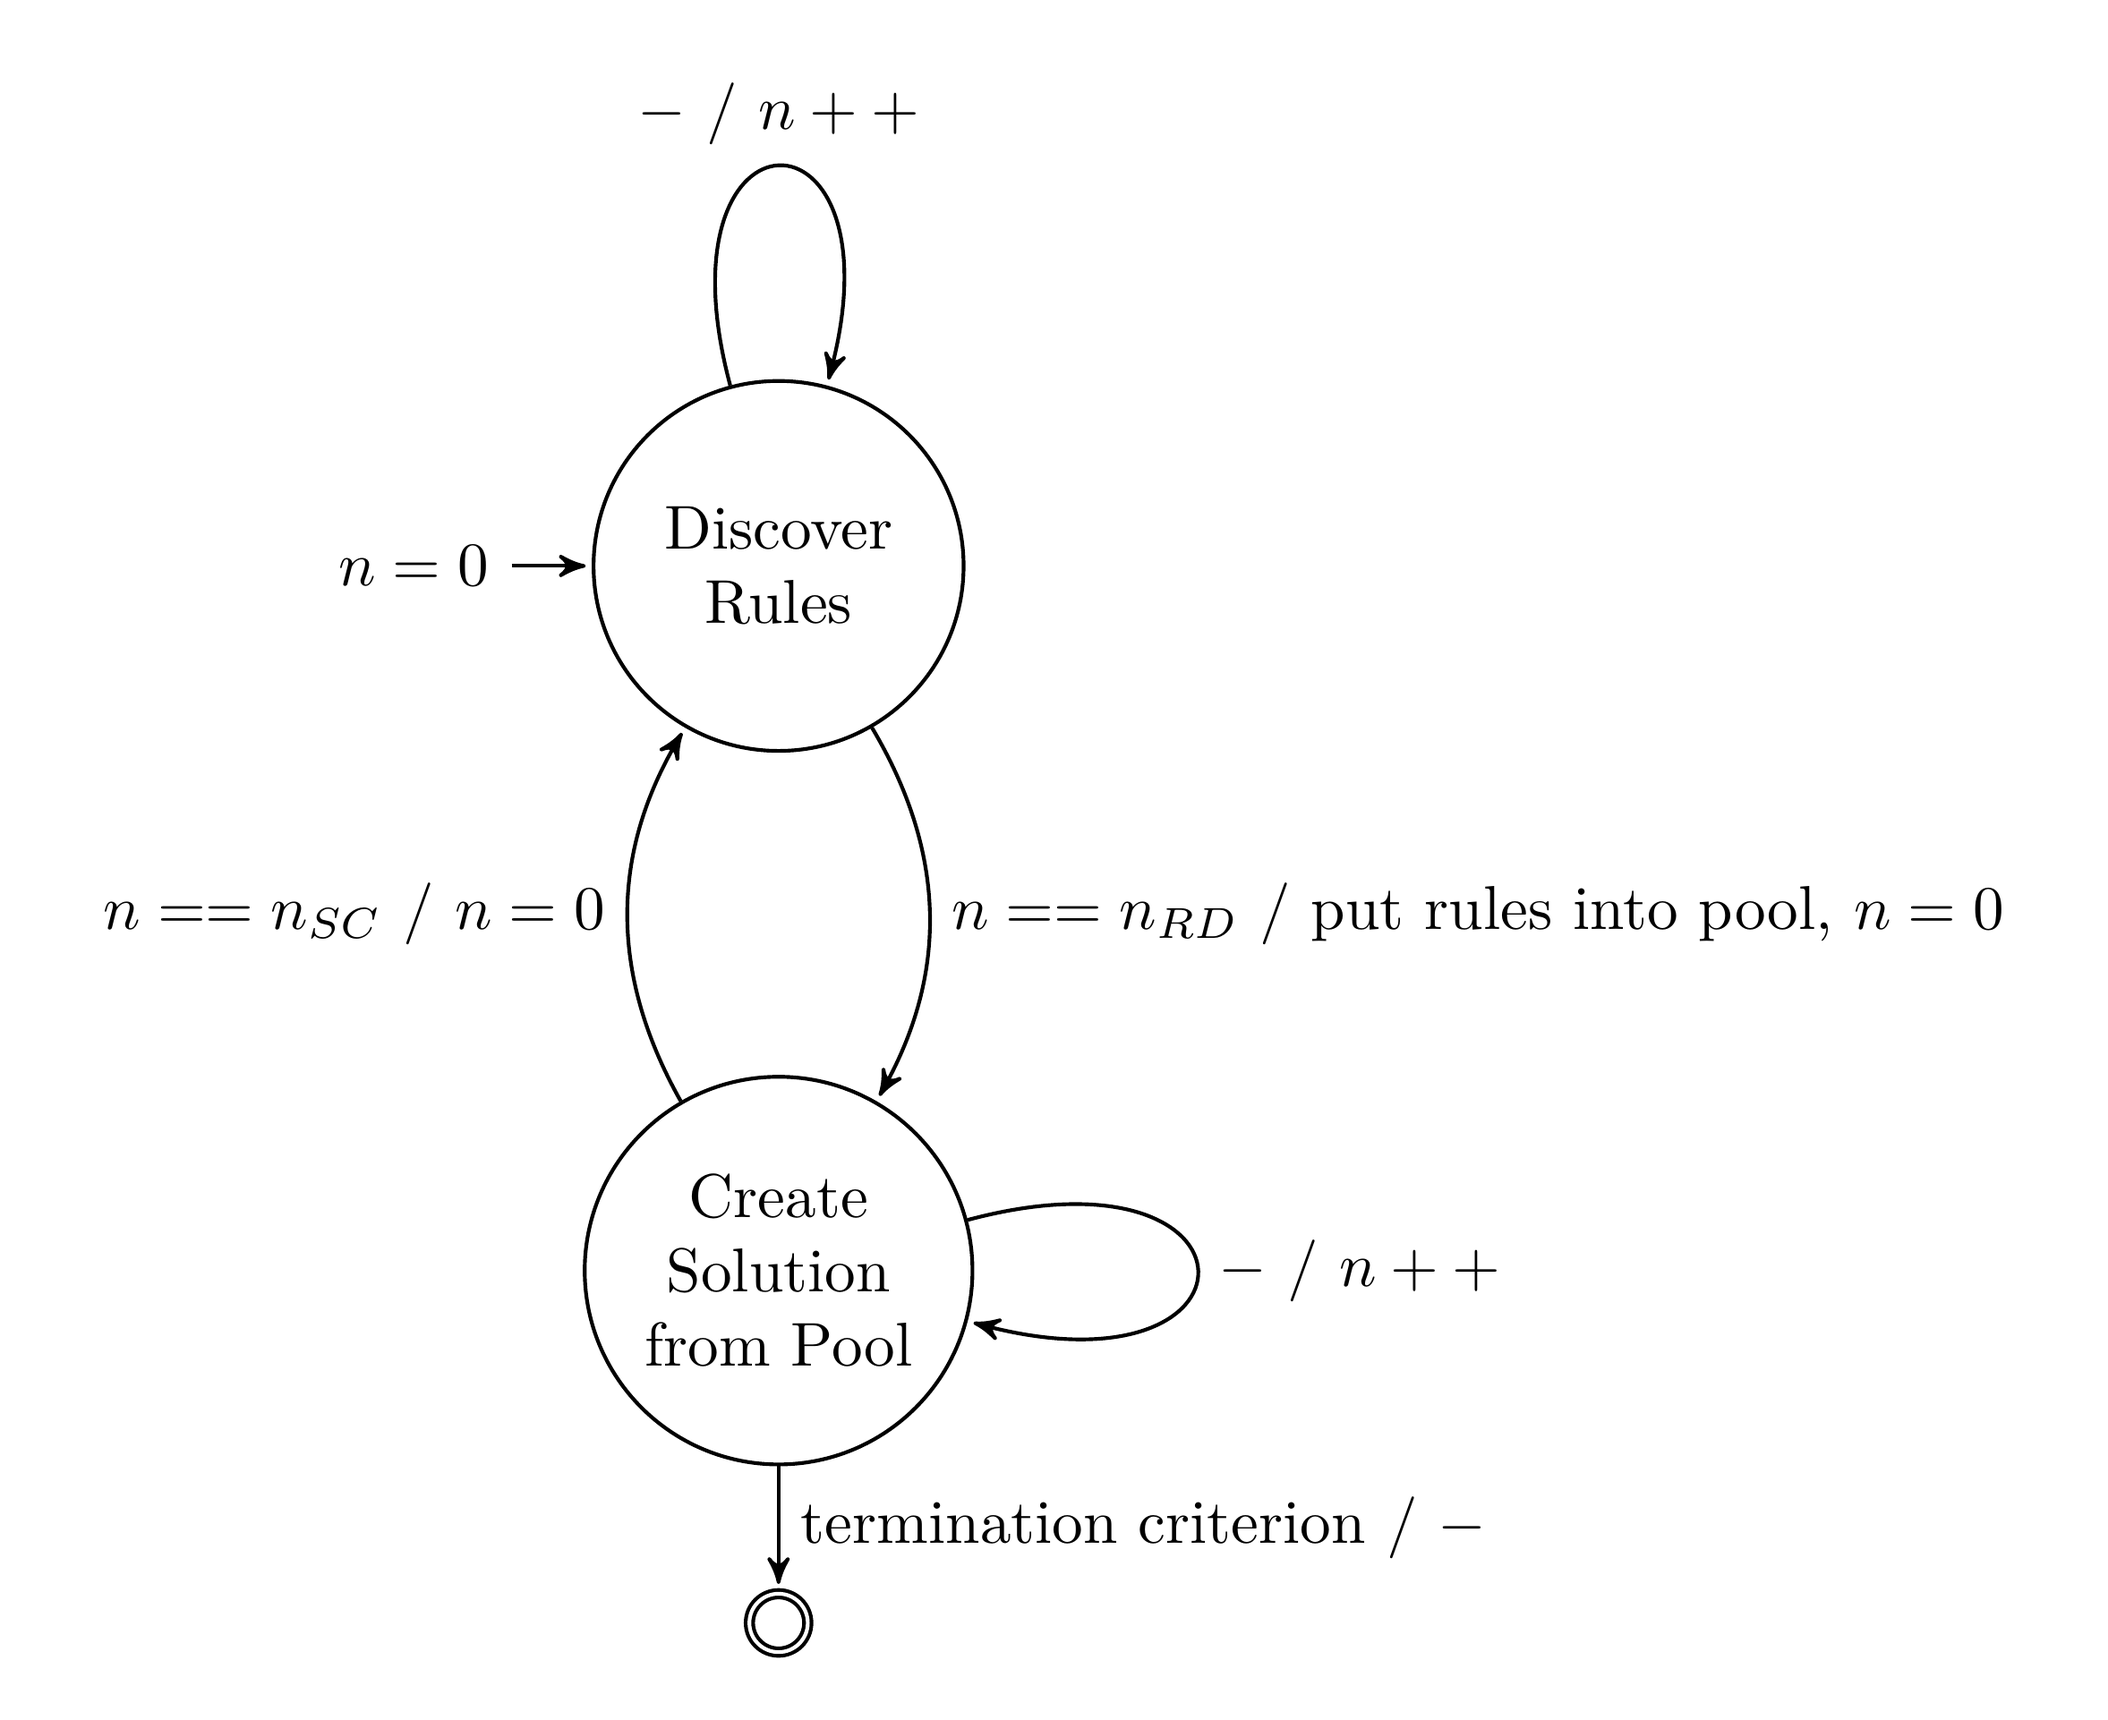
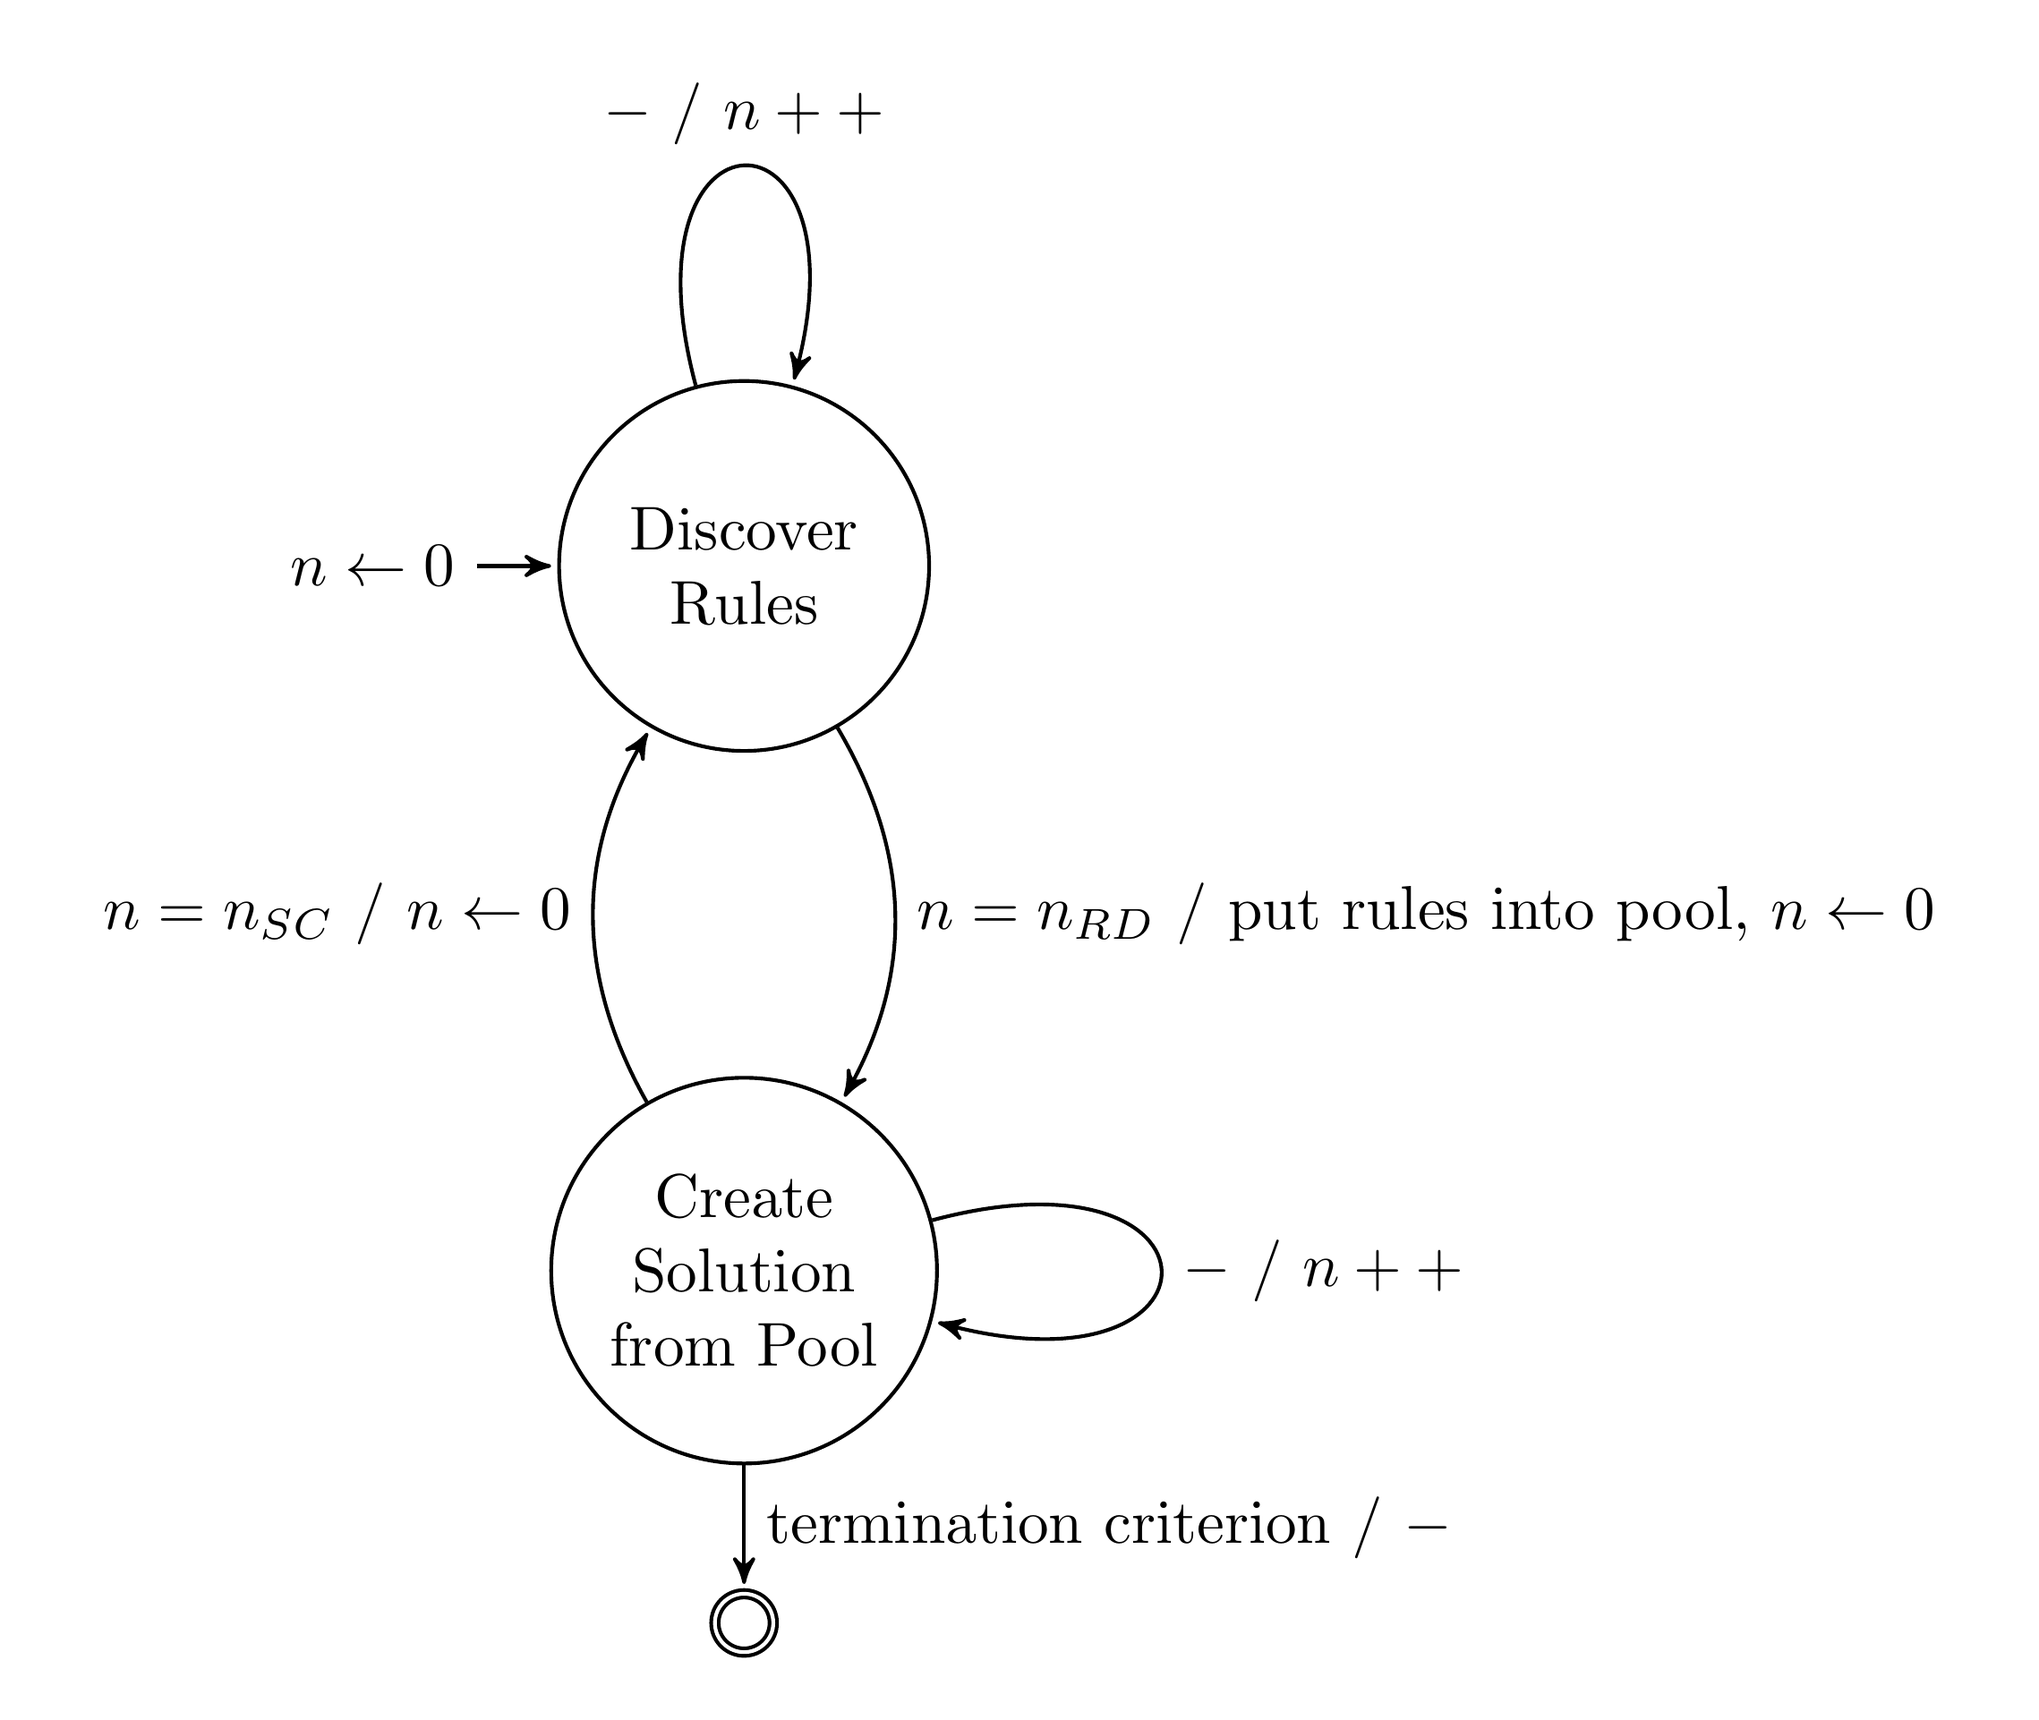
Formalize statemachine on first page, #25

diff --git a/docs/suprb-2.tex b/docs/suprb-2.tex
@@ -18,7 +18,7 @@
 \begin{page}
 
 %pic 1
-\begin{tikzpicture}[remember picture,->,>=stealth',shorten >=1pt,auto,node distance=4cm,semithick,initial text=${n=0}$]
+\begin{tikzpicture}[remember picture,->,>=stealth',shorten >=1pt,auto,node distance=4cm,semithick,initial text=${n\leftarrow0}$]
   \tikzstyle{every state}=[fill=none,draw=black,text=black,align=center]
   
 
@@ -27,8 +27,8 @@
   \node[state,accepting,yshift=2cm,minimum size=0.1cm](T)[below of=C]		  {};
 
   \path (D) edge[loop above] node {$-$ / $n++$}	(D)
-            edge[bend left]	node[align=right] {$n==n_{RD}$ / put rules into pool, $n=0$}	(C)
-		(C) edge[bend left] node[align=right] {$n==n_{SC}$ / $n=0$}	  	(D)
+            edge[bend left]	node[align=right] {$n=n_{RD}$ / put rules into pool, $n\leftarrow0$}	(C)
+		(C) edge[bend left] node[align=right] {$n=n_{SC}$ / $n\leftarrow0$}	  	(D)
 			edge[loop right] node {$-$ / $n++$}		(C)
 			edge			  node[align=center] {termination criterion / $-$}		(T);
 \end{tikzpicture}

diff --git a/docs/solution.tex b/docs/solution.tex
@@ -44,7 +44,7 @@
 \draw node[draw=blue,rectangle,minimum width=2cm,below of=cle,yshift=0.5cm] (clf) {\blue cl5};
 \draw node[draw=black,rectangle,minimum width=2cm,below of=clf,yshift=0.61cm] (clx) {...};
 
-\draw node[right of=pool,xshift=3.5cm,yshift=-1cm,align=left] (rules) {rules are not removed from pool\\ but new rules can be added;\\ rules in pool don't change};
+\draw node[right of=pool,xshift=3.5cm,yshift=-1cm,align=left] (rules) {rules are not removed from pool\\ but new rules can be added;\\ rules in the pool don't change};
 
 \end{tikzpicture}
 
